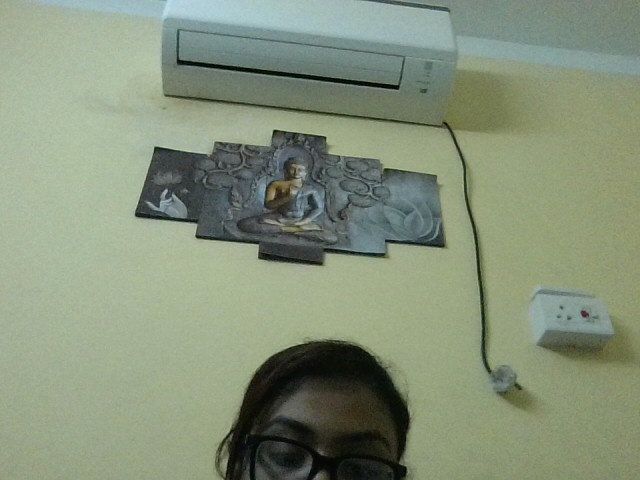
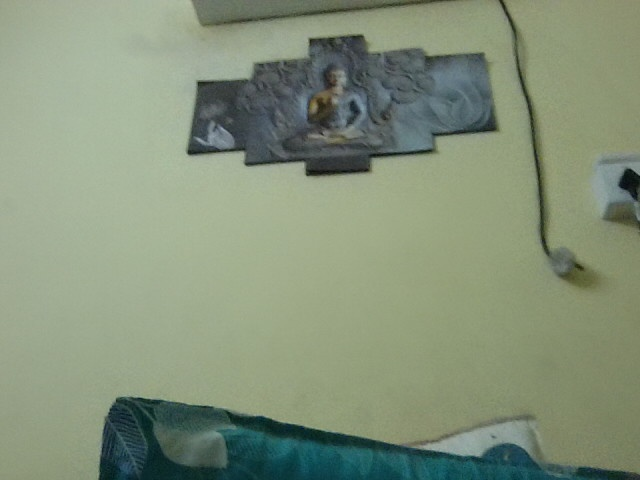
Add attendance tracking functionality and initial attendance data

diff --git a/recognize.py b/recognize.py
@@ -1,63 +1,76 @@
+from ast import Name
+
 import cv2
 import os
+import pandas as pd
+from datetime import datetime
 from deepface import DeepFace
 
 DATASET_PATH = "dataset"
 TEMP_IMAGE = "temp.jpg"
-
+ATTENDANCE_FILE = "attendance/attendance.csv"
 
 def recognize_face():
-    name = "Unknown"
+ for person in os.listdir(DATASET_PATH):
+  person_folder = os.path.join(DATASET_PATH, person)
 
-    for person in os.listdir(DATASET_PATH):
-        person_folder = os.path.join(DATASET_PATH, person)
+ for image in os.listdir(person_folder):
+        db_image = os.path.join(person_folder, image)
 
-        for image in os.listdir(person_folder):
-            db_image = os.path.join(person_folder, image)
+        result = DeepFace.verify(
+            img1_path=TEMP_IMAGE,
+            img2_path=db_image,
+            enforce_detection=False
+        )
 
-            result = DeepFace.verify(
-                img1_path=TEMP_IMAGE,
-                img2_path=db_image,
-                enforce_detection=False
-            )
+        if result["verified"]:
+            return person
 
-            if result["verified"]:
-                return person
+ return "Unknown"
 
-    return name
+def mark_attendance(name):
+    now = datetime.now()
 
+    date = now.strftime("%Y-%m-%d")
+    time = now.strftime("%H:%M:%S")
 
+    df = pd.read_csv(ATTENDANCE_FILE)
+
+    if name not in df["Name"].values:
+        df.loc[len(df)] = [name, date, time]
+        df.to_csv(ATTENDANCE_FILE, index=False)
+
+        print("Attendance marked for", name)
 def start_camera():
-    print("Starting camera... Press ESC to exit")
+ print("Starting camera... Press ESC to exit")
 
-    cap = cv2.VideoCapture(0)
+cap = cv2.VideoCapture(0)
 
-    while True:
-        ret, frame = cap.read()
+while True:
+    ret, frame = cap.read()
 
-        if not ret:
-            print("Camera error")
-            break
+    if not ret:
+        print("Camera error")
+        break
 
-        cv2.imwrite(TEMP_IMAGE, frame)
+    cv2.imwrite(TEMP_IMAGE, frame)
 
-        try:
-            name = recognize_face()
-        except:
-            name = "Unknown"
+    name = recognize_face()
 
-        cv2.putText(frame, name, (50, 50),
-                    cv2.FONT_HERSHEY_SIMPLEX,
-                    1, (0, 255, 0), 2)
+    if name != "Unknown":
+        mark_attendance(name)
 
-        cv2.imshow("Smart Attendance Camera", frame)
+    cv2.putText(frame, name, (50, 50),
+                cv2.FONT_HERSHEY_SIMPLEX,
+                1, (0, 255, 0), 2)
 
-        if cv2.waitKey(1) == 27:
-            break
+    cv2.imshow("Smart Attendance Camera", frame)
 
-    cap.release()
-    cv2.destroyAllWindows()
+    if cv2.waitKey(1) == 27:
+        break
 
+cap.release()
+cv2.destroyAllWindows()
 
-if __name__ == "__main__":
-    start_camera()
+if name == "main":
+ start_camera()
